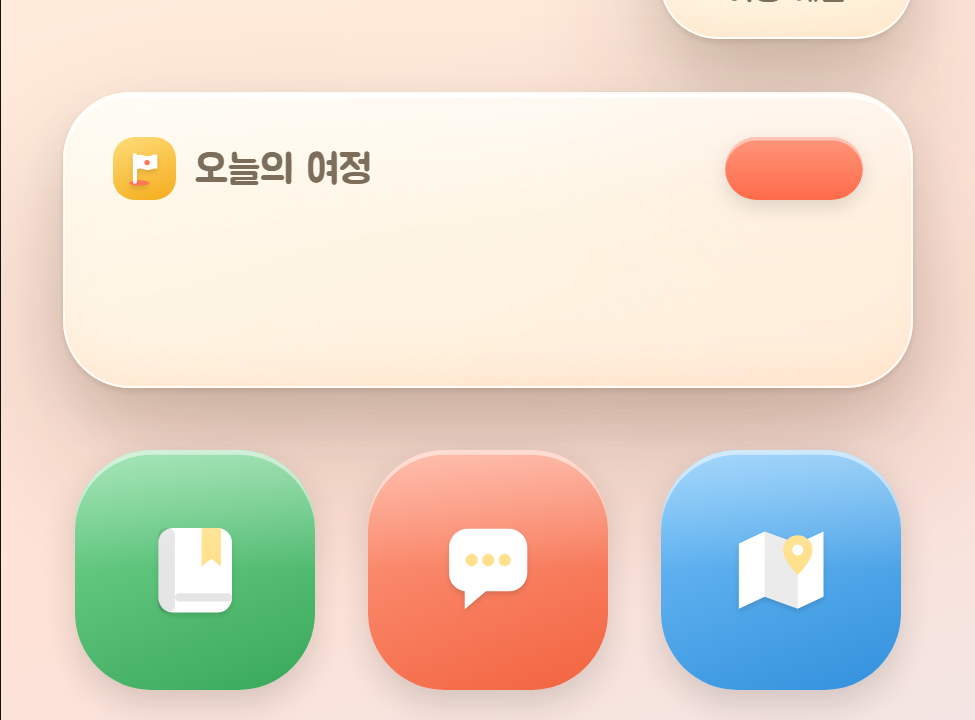
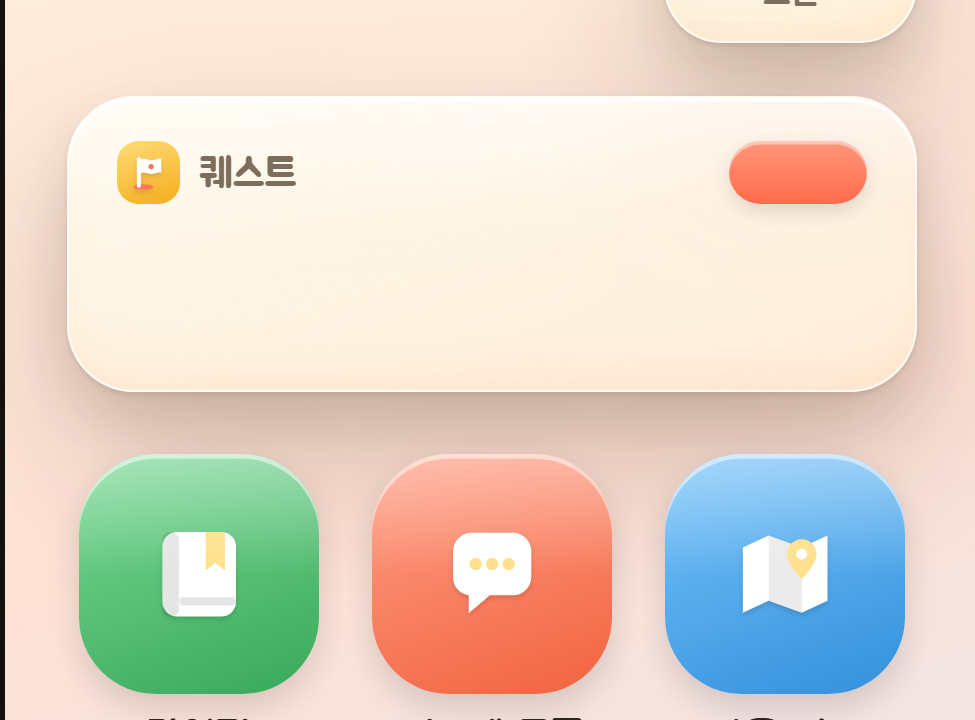
[S15P31A305-593] 폰 메뉴 퀘스트 위젯: 단계가 많아도 진행 칸이 카드 안에 들어가게, '오늘의 여정'·'여행 예산'을 '퀘스트'·'코인'으로
- 단계가 시안(7칸)보다 많으면 진행 칸을 줄여 카드 안에 넣는다(마을 이야기 12단계에서 카드 밖으로 넘치던 문제)
- 다 끝낸 뒤 안내처럼 긴 할 일은 글자를 줄여 한 줄에 넣는다(Apply Phone Quest Text Fit)
- 시안 m1 그림을 다시 렌더링해 '오늘의 여정'을 '퀘스트', '여행 예산'을 '코인'으로 바꾼다

diff --git a/frontend/UnityClient/Assets/Scripts/Editor/Theme/PhoneMenuBuilder.cs b/frontend/UnityClient/Assets/Scripts/Editor/Theme/PhoneMenuBuilder.cs
@@ -18,6 +18,7 @@ namespace A305.EditorTools.Theme
     public static class PhoneMenuBuilder
     {
         private const string MenuPath = "Tools/A305/UI/Apply Phone Menu";
+        private const string JourneyTextMenuPath = "Tools/A305/UI/Apply Phone Quest Text Fit";
         private const string HudPrefabPath = "Assets/Prefabs/Learning/LearningHud.prefab";
         private const string ArtFolder = "Assets/Art/UI/Phone";
         private const string DisplayFontPath = "Assets/Art/UI/Fonts/Jua-Regular SDF.asset";
@@ -74,6 +75,20 @@ namespace A305.EditorTools.Theme
         public static void ApplyToPrefab()
         {
             BuilderTools.UpdatePrefabIfExists(HudPrefabPath, Apply);
+            AssetDatabase.SaveAssets();
+        }
+
+        /// <summary>폰을 다시 만들지 않고 퀘스트 위젯 안내 글자만 한 줄에 맞게 바꾼다.</summary>
+        [MenuItem(JourneyTextMenuPath)]
+        public static void ApplyJourneyTextFitToPrefab()
+        {
+            BuilderTools.UpdatePrefabIfExists(
+                HudPrefabPath,
+                root =>
+                    FitDirection(
+                        root.transform.Find("Panel/Menu/Journey/Direction").GetComponent<TMP_Text>()
+                    )
+            );
             AssetDatabase.SaveAssets();
         }
 
@@ -203,7 +218,7 @@ namespace A305.EditorTools.Theme
             Clear(BuilderTools.GetOrAddComponent<Image>(phone.gameObject)).raycastTarget = true;
         }
 
-        // 상태 표시줄 시각, 큰 시각, 날짜, 여행 예산 숫자
+        // 상태 표시줄 시각, 큰 시각, 날짜, 코인 숫자
         private static void LockScreen(PhoneMenuView view, RectTransform phone)
         {
             TMP_Text status = Text(
@@ -264,7 +279,7 @@ namespace A305.EditorTools.Theme
             BuilderTools.SetReference(view, "budget", amount);
         }
 
-        // 오늘의 여정 카드: 시안에서 잘라 낸 카드 그림(화면 폭, 폰 기준 y 150~450) 위에 단계 칩 글자·할 일·진행 칸
+        // 퀘스트 위젯 카드: 시안에서 잘라 낸 카드 그림(화면 폭, 폰 기준 y 150~450) 위에 단계 칩 글자·할 일·진행 칸
         private static void Journey(PhoneMenuView view, RectTransform phone)
         {
             const float CardLeft = 12;
@@ -303,7 +318,7 @@ namespace A305.EditorTools.Theme
                 312,
                 27.6f
             );
-            direction.overflowMode = TextOverflowModes.Ellipsis;
+            FitDirection(direction);
             // 진행 칸 그림은 빛 번짐 자리(사방 12px)를 품고 있어, 칸 사이 6px에서 그만큼 겹쳐 놓는다.
             RectTransform steps = Rect(
                 "Steps",
@@ -329,6 +344,15 @@ namespace A305.EditorTools.Theme
             BuilderTools.SetReference(view, "upcomingMark", Art("PhoneStepUpcoming"));
             BuilderTools.SetReference(view, "currentMark", Art("PhoneStepCurrent"));
             BuilderTools.SetReference(view, "doneMark", Art("PhoneStepDone"));
+        }
+
+        // 다 끝낸 뒤의 안내처럼 길면 글자를 줄여(23 → 17) 한 줄에 넣는다. 그래도 넘치면 끝을 줄임표로 줄인다.
+        private static void FitDirection(TMP_Text direction)
+        {
+            direction.enableAutoSizing = true;
+            direction.fontSizeMin = 17 * Px;
+            direction.fontSizeMax = 23 * Px;
+            direction.overflowMode = TextOverflowModes.Ellipsis;
         }
 
         // 앱 다섯 개. 아이콘은 폰 그림에 들어 있고, 버튼은 시안의 앱 칸을 누르는 투명한 영역과 이름 글자다.

diff --git a/frontend/UnityClient/Assets/Scripts/Learning/PhoneMenuView.cs b/frontend/UnityClient/Assets/Scripts/Learning/PhoneMenuView.cs
@@ -7,7 +7,7 @@ using UnityEngine.UI;
 namespace A305.Learning
 {
     /// <summary>
-    /// 오른쪽 위 휴대폰 메뉴의 화면. 잠금 화면처럼 큰 게임 시계와 날짜, 여행 예산, 오늘의 여정(단계 칩·할 일·진행 막대)을 보이고,
+    /// 오른쪽 위 휴대폰 메뉴의 화면. 잠금 화면처럼 큰 게임 시계와 날짜, 코인, 퀘스트 위젯(단계 칩·할 일·진행 막대)을 보이고,
     /// [마을 지도] 앱을 누르면 미션 화면에 큰 지도를 열어 달라고 알린다. 메뉴를 펼치고 접는 일은 <see cref="HudMenuView"/>가 맡고,
     /// 다른 앱 버튼의 기능은 <see cref="LearningHudView"/>와 각 화면이 맡는다. 화면이 낮으면 폰을 줄여 화면 안에 맞춘다.
     /// </summary>
@@ -18,6 +18,13 @@ namespace A305.Learning
 
         // HUD 패널이 화면 위 모서리에서 들어간 거리. 폰은 패널 오른쪽 위를 기준으로 놓인다.
         private const float PanelInset = 24;
+
+        // 시안 m1 진행 칸: 줄 폭 312px에 칸 7개(칸 39.43, 사이 6). 칸 그림은 양옆 빛 번짐 자리 12px를 품는다. 캔버스는 시안 px × 1.2다.
+        private const float ProgressWidth = 312;
+        private const float StepWidth = 39.43f;
+        private const float StepGap = 6;
+        private const float StepGlow = 12;
+        private const float Px = 1.2f;
 
         [SerializeField]
         [Tooltip("상태 표시줄 왼쪽의 작은 시각")]
@@ -31,7 +38,7 @@ namespace A305.Learning
         private TMP_Text date;
 
         [SerializeField]
-        [Tooltip("여행 예산 위젯의 코인 숫자")]
+        [Tooltip("코인 위젯의 코인 숫자")]
         private TMP_Text budget;
 
         [SerializeField]
@@ -62,7 +69,7 @@ namespace A305.Learning
 
         private int shownMinute = -1;
 
-        /// <summary>시계·예산·오늘의 여정을 지금 상태로 다시 쓴다.</summary>
+        /// <summary>시계·코인·퀘스트 위젯을 지금 상태로 다시 쓴다.</summary>
         public void Refresh()
         {
             shownMinute = -1;
@@ -110,18 +117,26 @@ namespace A305.Learning
             statusTime.text = GameClockText.HalfAndTime(minutes);
         }
 
+        // 단계마다 칸 하나. 단계가 시안(7칸)보다 많으면 칸을 줄여 카드 안에 넣는다.
         private void ShowProgress()
         {
             var marks = JourneyStatus.Shared.Marks;
             GameObject template = journeyProgress.GetChild(0).gameObject;
             while (journeyProgress.childCount < marks.Count)
                 Instantiate(template, journeyProgress, false);
+            float width = Mathf.Min(
+                StepWidth,
+                (ProgressWidth - StepGap * (marks.Count - 1)) / Mathf.Max(1, marks.Count)
+            );
             for (int i = 0; i < journeyProgress.childCount; i++)
             {
                 GameObject mark = journeyProgress.GetChild(i).gameObject;
                 mark.SetActive(i < marks.Count);
-                if (i < marks.Count)
-                    mark.GetComponent<Image>().sprite = MarkSprite(marks[i]);
+                if (i >= marks.Count)
+                    continue;
+                mark.GetComponent<Image>().sprite = MarkSprite(marks[i]);
+                var size = mark.GetComponent<LayoutElement>();
+                size.minWidth = size.preferredWidth = (width + StepGlow * 2) * Px;
             }
         }
 

diff --git a/frontend/UnityClient/Assets/Tests/EditMode/Learning/PhoneMenuTests.cs b/frontend/UnityClient/Assets/Tests/EditMode/Learning/PhoneMenuTests.cs
@@ -88,6 +88,40 @@ namespace A305.Learning.Tests
             Assert.That(shown, Is.EqualTo(2));
         }
 
+        // 단계가 시안(7칸)보다 많아도(마을 이야기 12단계) 진행 칸을 줄여 카드 안에 넣는다.
+        [Test]
+        public void ManySteps_StayInsideTheJourneyCard()
+        {
+            var marks = new JourneyMark[12];
+            JourneyStatus.Shared.Show(
+                "12 / 12",
+                "마을의 이웃들과 자유롭게 대화해 보세요.",
+                marks,
+                76
+            );
+
+            phone.Refresh();
+
+            var progress = Field<RectTransform>("journeyProgress");
+            // 닫혀 있는 폰을 열어 배치를 계산한다.
+            for (Transform part = progress; part != null; part = part.parent)
+                part.gameObject.SetActive(true);
+            LayoutRebuilder.ForceRebuildLayoutImmediate(progress);
+            int shown = 0;
+            foreach (RectTransform mark in progress)
+            {
+                if (!mark.gameObject.activeSelf)
+                    continue;
+                shown++;
+                Assert.That(
+                    mark.anchoredPosition.x + mark.rect.width * (1 - mark.pivot.x),
+                    Is.LessThanOrEqualTo(progress.rect.width + .05f),
+                    $"{shown}번째 칸"
+                );
+            }
+            Assert.That(shown, Is.EqualTo(12));
+        }
+
         [Test]
         public void WithoutAJourney_HidesTheJourneyWidget()
         {

diff --git a/frontend/UnityClient/Assets/Scripts/Learning/README.md b/frontend/UnityClient/Assets/Scripts/Learning/README.md
@@ -25,7 +25,7 @@
 | `LearningController` | 대화가 끝나면 피드백을 열고, 대화창에서 [단어장에 저장]을 누른 풀이 단어를 저장해 결과("단어장에 저장했어요."·"이미 단어장에 있는 단어예요."·실패 이유)를 대화창에 돌려주고 [단어장] 개수를 맞추고, 단어장을 열 때마다 서버에서 다시 읽고, 외웠어요·메모·삭제를 서버에 저장하고, [피드백 목록]에서 고른 대화의 피드백을 다시 열고, 화면이 열려 있는 동안 이동을 잠급니다. `apiSettings`가 비어 있으면 단어장과 피드백 목록을 열지 않고 대화창의 [단어장에 저장]도 숨깁니다. |
 | `FeedbackView`, `VocabularyView`, `ConversationHistoryView`, `LearningHudView` | 피드백 화면, 단어장 화면, 피드백 목록 창, 오른쪽 위 휴대폰 메뉴의 [단어장](저장 개수 배지)·[피드백 목록]·[집으로] 앱과 저장 알림입니다. 피드백 목록 창은 HUD 프리팹에 있어 장소 씬마다 배치하지 않습니다. 피드백 목록 창은 확정 시안(m3를 다듬은 것)대로 유리 판(1080×620 × 1.2)에 머리줄(앱 아이콘·제목·닫기)과 대화 줄 4개(`ConversationHistoryRow`: 흰 유리 칸, 색 아이콘, "NPC · 장소", 시간, [보기]), 아래 가운데 쪽 넘김을 두고, 열려 있는 동안 뒤 장면을 시안 그림자로 덮습니다. 배치는 **Tools → A305 → Learning → Apply Feedback List**(`FeedbackListBuilder`)가 만들고 테마 Builder도 이 Builder를 부릅니다. 내 정보 창의 닫기는 단어장처럼 창 오른쪽 위 X입니다. |
 | `HudMenu`, `HudMenuView` | 오른쪽 위 휴대폰 메뉴의 펼침 상태와 화면. 시안(g1)의 파란 휴대폰 버튼(오른쪽·위 28px, 시안을 렌더링한 그림)은 폰을 펼치고 접으며, 대화 중에는 시안(g4)처럼 숨깁니다(`LearningHudView.SetTalking`). 이 버튼은 폰 안의 버튼(앱·내비게이션 바)을 누르거나 바깥을 누르면 접습니다. 펼친 동안 캔버스 그리기 순서를 1000으로 올려 퀘스트 카드·시계 칩보다 위에 그립니다. `HudMenu`는 Unity 객체 없이 테스트합니다. |
-| `PhoneMenuView` | 삼성폰 모양 메뉴 화면(`Panel/Menu`). 상태 표시줄 시각, 잠금 화면처럼 큰 게임 시계와 날짜·닉네임(`PlayerNickname`), 여행 예산, 오늘의 여정(단계 칩·할 일·진행 막대, World 모듈의 `JourneyStatus`)을 펼칠 때 다시 씁니다. 앱은 단어장·피드백 목록·마을 지도·집으로·내 정보·조작법이고, [마을 지도]는 `JourneyStatus.RequestMap`으로 미션 화면의 큰 지도를 엽니다. 내비게이션 바(최근 앱·홈·뒤로)는 폰을 접습니다. 화면이 낮으면 폰을 줄여 맞춥니다. 화면은 **Tools → A305 → UI → Apply Phone Menu**(`PhoneMenuBuilder`)가 만듭니다. 폰 틀·화면·아이콘·위젯 바탕·진행 칸·배지·펼친 동안의 어두운 막은 확정 시안(m1) HTML을 그대로 렌더링한 그림(`Art/UI/Phone`)이고, 바뀌는 글자만 시안의 자리와 크기(시안 px × 1.2)로 얹습니다. Jua 글자는 시안 두께에 맞춘 재질(`Jua Phone.mat`)로 그립니다. 펼친 동안 오른쪽 위 휴대폰 버튼은 시안처럼 보이지 않고, 같은 자리를 누르면 접힙니다. |
+| `PhoneMenuView` | 삼성폰 모양 메뉴 화면(`Panel/Menu`). 상태 표시줄 시각, 잠금 화면처럼 큰 게임 시계와 날짜·닉네임(`PlayerNickname`), 코인, 퀘스트 위젯(단계 칩·할 일·진행 막대, World 모듈의 `JourneyStatus`. 단계가 7개보다 많으면 진행 칸을 줄여 카드 안에 넣고, 긴 할 일은 글자를 줄여 한 줄에 넣는다)을 펼칠 때 다시 씁니다. 앱은 단어장·피드백 목록·마을 지도·집으로·내 정보·조작법이고, [마을 지도]는 `JourneyStatus.RequestMap`으로 미션 화면의 큰 지도를 엽니다. 내비게이션 바(최근 앱·홈·뒤로)는 폰을 접습니다. 화면이 낮으면 폰을 줄여 맞춥니다. 화면은 **Tools → A305 → UI → Apply Phone Menu**(`PhoneMenuBuilder`)가 만듭니다. 폰 틀·화면·아이콘·위젯 바탕·진행 칸·배지·펼친 동안의 어두운 막은 확정 시안(m1) HTML을 그대로 렌더링한 그림(`Art/UI/Phone`)이고, 바뀌는 글자만 시안의 자리와 크기(시안 px × 1.2)로 얹습니다. Jua 글자는 시안 두께에 맞춘 재질(`Jua Phone.mat`)로 그립니다. 펼친 동안 오른쪽 위 휴대폰 버튼은 시안처럼 보이지 않고, 같은 자리를 누르면 접힙니다. |
 | `ControlsGuide`, `ControlsGuideText`, `ControlsGuideView` | 오른쪽 아래 조작법 카드. `ControlsGuide`는 카드를 X로 닫았는지 이 기기(Web 빌드는 브라우저)의 `PlayerPrefs`에 기억하고 보일지 정하며, `ControlsGuideText`는 PC·휴대폰 문구를 정합니다. 둘 다 Unity 객체 없이 테스트합니다. `ControlsGuideView`는 카드와 휴대폰 메뉴의 [조작법] 앱을 잇습니다. |
 | `SurveyPromptView`, `SurveyPromptSlide` | 설문을 권할 때(`A305.Api`의 `SurveyPrompt.Request`) 화면 위 가운데에서 내려오는 설문 카드("잠깐! 이용해 보니 어땠나요?", [설문 하러 가기]·오른쪽 위 X). [설문 하러 가기]는 설문을 새 탭에서 열고 카드를 닫습니다. 이미 보이는 동안 다시 요청해도 다시 내려오지 않습니다. 다른 창의 덮개 위에서도 누를 수 있게 따로 그리기 순서 1500의 캔버스를 두고, 화면을 덮지 않습니다. 문구·주소·모양은 이 카드 한 곳에서 바꾸고, 설문을 권하는 곳(게스트 가입 안내 창, 첫 호텔 퀘스트 완료)은 요청만 합니다. 내려오는 움직임(`SurveyPromptSlide`, 0.35초, 끝으로 갈수록 천천히)은 Unity 객체 없이 테스트합니다. HUD 프리팹에 있어 장소 씬마다 배치하지 않습니다(**Tools → A305 → UI → Add Survey Prompt**). |
 
